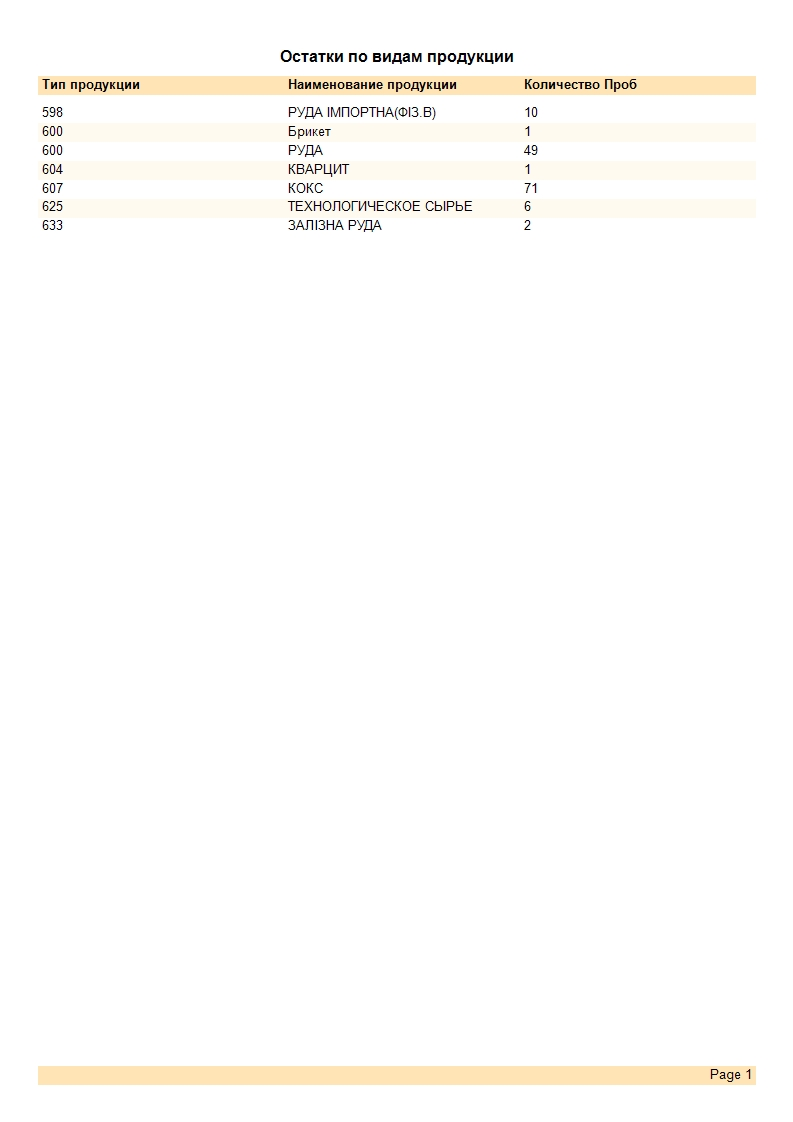
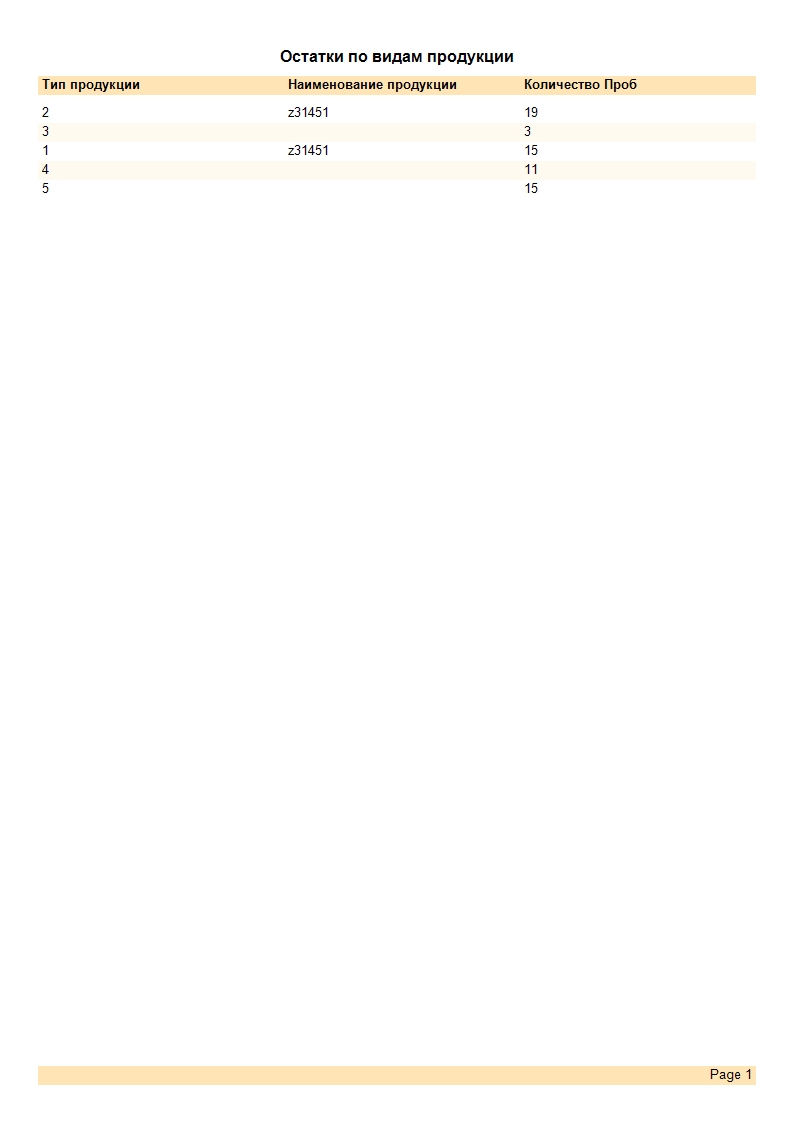
_fields.DataSource.RemoveAt(currentRow);

Changed region(s): [[0.3632, 0.0936, 0.575, 0.2184], [0.0303, 0.0936, 0.0908, 0.2184], [0.6658, 0.156, 0.6961, 0.1872]]

diff --git a/Service/DataBaseAccessService.cs b/Service/DataBaseAccessService.cs
@@ -1,4 +1,5 @@
 using Dapper;
+using System;
 using System.Collections.Generic;
 using System.Data.OleDb;
 using System.Linq;
@@ -28,26 +29,31 @@ namespace WindowsFormsFRep.Service
 
         public OleDbConnectionStringBuilder OracleConnectionStringBuilder { get => oracleConnectionStringBuilder; set => oracleConnectionStringBuilder = value; }
 
-        public List<Fields> SelectFieldsFromDateBase(string dateFrom, string dateTo)
+        public List<Fields> SelectFieldsFromDateBase()
         {
-            string command = " SELECT DISTINCT(C.CALC#) CALC, " +
-                             "   C.CALCNAME CALCNAME, " +
-                             "   COUNT(S.CALC#)  COUNT " +
-                             "   FROM SUPLPROBA S, CALC C, PROD P " +
-                             "   WHERE S.DOCDATE  between to_date(" + " ' " + dateFrom + " ' " + ", 'dd/mm/yyyy') and " +
-                             "                            to_date(" + " ' " + dateTo + " ' " + ", 'dd/mm/yyyy') " +
-                             "   AND C.CALC#=S.CALC# AND S.PROD#=P.PROD# AND P.PRODNAME NOT LIKE ('%БРИК%') " +
-                             "   GROUP BY C.CALC#,C.CALCNAME,S.CALC# " +
-                             "   UNION SELECT DISTINCT(C.CALC#) CALC, " +
-                             "  'Брикет' CALCNAME, " +
-                             "   COUNT(S.CALC#)  COUNT " +
-                             "   FROM SUPLPROBA S, CALC C, prod p " +
-                              "  WHERE S.DOCDATE  between to_date(" + " ' " + dateFrom + " ' " + ", 'dd/mm/yyyy') and " +
-                              "                           to_date(" + " ' " + dateTo + " ' " + ", 'dd/mm/yyyy') " +
-                              "  AND C.CALC#=S.CALC# " +
-                              "  and s.prod#=p.prod# " +
-                              "  and s.calc#=600 and p.prodname like ('%БРИК%') " +
-                              "  GROUP BY C.CALC#,C.CALCNAME,S.CALC# ";
+            //(string dateFrom, string dateTo)
+            //string command = " SELECT DISTINCT(C.CALC#) CALC, " +
+            //                 "   C.CALCNAME CALCNAME, " +
+            //                 "   COUNT(S.CALC#)  COUNT " +
+            //                 "   FROM SUPLPROBA S, CALC C, PROD P " +
+            //                 "   WHERE S.DOCDATE  between to_date(" + " ' " + dateFrom + " ' " + ", 'dd/mm/yyyy') and " +
+            //                 "                            to_date(" + " ' " + dateTo + " ' " + ", 'dd/mm/yyyy') " +
+            //                 "   AND C.CALC#=S.CALC# AND S.PROD#=P.PROD# AND P.PRODNAME NOT LIKE ('%БРИК%') " +
+            //                 "   GROUP BY C.CALC#,C.CALCNAME,S.CALC# " +
+            //                 "   UNION SELECT DISTINCT(C.CALC#) CALC, " +
+            //                 "  'Брикет' CALCNAME, " +
+            //                 "   COUNT(S.CALC#)  COUNT " +
+            //                 "   FROM SUPLPROBA S, CALC C, prod p " +
+            //                  "  WHERE S.DOCDATE  between to_date(" + " ' " + dateFrom + " ' " + ", 'dd/mm/yyyy') and " +
+            //                  "                           to_date(" + " ' " + dateTo + " ' " + ", 'dd/mm/yyyy') " +
+            //                  "  AND C.CALC#=S.CALC# " +
+            //                  "  and s.prod#=p.prod# " +
+            //                  "  and s.calc#=600 and p.prodname like ('%БРИК%') " +
+            //                  "  GROUP BY C.CALC#,C.CALCNAME,S.CALC# ";
+
+            //string command = " SELECT CALC# CALC, CALCNAME CALCNAME, unit# COUNT FROM CALC"; WAREDEFECT
+
+            string command = " SELECT DOCNO CALC, DBUSER CALCNAME, DEPT# COUNT FROM WAREDEFECT";
 
             List<Fields> result;
 
@@ -57,5 +63,24 @@ namespace WindowsFormsFRep.Service
             }
             return result;
         }
+
+        public int DeleteFromDatabase(string calc)
+        {
+            using (OleDbConnection db = new OleDbConnection(oracleConnectionStringBuilder.ConnectionString))
+            {
+                string sqlcommand  = " DELETE FROM WAREDEFECT WHERE docno = " + calc;                
+                try 
+                {                  
+                    int row = db.Execute(sqlcommand); 
+                    return row;
+                }
+                catch(Exception ex)
+                {
+                    return 0;
+                }
+            }
+        }
+     
+            
     }
 }

diff --git a/Form1.Designer.cs b/Form1.Designer.cs
@@ -31,6 +31,7 @@ namespace WindowsFormsFRep
         /// </summary>
         private void InitializeComponent()
         {
+            this.components = new System.ComponentModel.Container();
             System.ComponentModel.ComponentResourceManager resources = new System.ComponentModel.ComponentResourceManager(typeof(Form1));
             this.report = new FastReport.Report();
             this.dateTimePicker1 = new System.Windows.Forms.DateTimePicker();
@@ -38,8 +39,11 @@ namespace WindowsFormsFRep
             this.button1 = new System.Windows.Forms.Button();
             this.button2 = new System.Windows.Forms.Button();
             this.dataGridView = new System.Windows.Forms.DataGridView();
+            this.deleteButton = new System.Windows.Forms.Button();
+            this.bindingSource1 = new System.Windows.Forms.BindingSource(this.components);
             ((System.ComponentModel.ISupportInitialize)(this.report)).BeginInit();
             ((System.ComponentModel.ISupportInitialize)(this.dataGridView)).BeginInit();
+            ((System.ComponentModel.ISupportInitialize)(this.bindingSource1)).BeginInit();
             this.SuspendLayout();
             // 
             // report
@@ -65,17 +69,17 @@ namespace WindowsFormsFRep
             // 
             // button1
             // 
-            this.button1.Location = new System.Drawing.Point(252, 143);
+            this.button1.Location = new System.Drawing.Point(179, 127);
             this.button1.Name = "button1";
-            this.button1.Size = new System.Drawing.Size(75, 23);
+            this.button1.Size = new System.Drawing.Size(96, 23);
             this.button1.TabIndex = 2;
-            this.button1.Text = "Запрос";
+            this.button1.Text = "FastReport";
             this.button1.UseVisualStyleBackColor = true;
             this.button1.Click += new System.EventHandler(this.button1_Click);
             // 
             // button2
             // 
-            this.button2.Location = new System.Drawing.Point(252, 380);
+            this.button2.Location = new System.Drawing.Point(308, 127);
             this.button2.Name = "button2";
             this.button2.Size = new System.Drawing.Size(87, 23);
             this.button2.TabIndex = 3;
@@ -91,10 +95,21 @@ namespace WindowsFormsFRep
             this.dataGridView.Size = new System.Drawing.Size(426, 189);
             this.dataGridView.TabIndex = 4;
             // 
+            // deleteButton
+            // 
+            this.deleteButton.Location = new System.Drawing.Point(99, 389);
+            this.deleteButton.Name = "deleteButton";
+            this.deleteButton.Size = new System.Drawing.Size(103, 23);
+            this.deleteButton.TabIndex = 5;
+            this.deleteButton.Text = "Удалить строку";
+            this.deleteButton.UseVisualStyleBackColor = true;
+            this.deleteButton.Click += new System.EventHandler(this.deleteButton_Click);
+            // 
             // Form1
             // 
             this.AutoScaleMode = System.Windows.Forms.AutoScaleMode.None;
             this.ClientSize = new System.Drawing.Size(587, 512);
+            this.Controls.Add(this.deleteButton);
             this.Controls.Add(this.dataGridView);
             this.Controls.Add(this.button2);
             this.Controls.Add(this.button1);
@@ -105,6 +120,7 @@ namespace WindowsFormsFRep
             this.Text = "Остатки по видам продукции";
             ((System.ComponentModel.ISupportInitialize)(this.report)).EndInit();
             ((System.ComponentModel.ISupportInitialize)(this.dataGridView)).EndInit();
+            ((System.ComponentModel.ISupportInitialize)(this.bindingSource1)).EndInit();
             this.ResumeLayout(false);
 
         }
@@ -117,6 +133,8 @@ namespace WindowsFormsFRep
         private System.Windows.Forms.Button button1;
         private Button button2;
         private DataGridView dataGridView;
+        private Button deleteButton;
+        private BindingSource bindingSource1;
     }
 }
 

diff --git a/Form1.cs b/Form1.cs
@@ -7,6 +7,7 @@ using WindowsFormsFRep.Service;
 using System.Drawing;
 using Equin.ApplicationFramework;
 
+
 namespace WindowsFormsFRep
 {
     public partial class Form1 : Form
@@ -23,9 +24,11 @@ namespace WindowsFormsFRep
 
         private void button1_Click(object sender, EventArgs e)
         {
-            DataBaseAccessService dataBaseAccessService = new DataBaseAccessService();
-            result = dataBaseAccessService.SelectFieldsFromDateBase(dateTimePicker1.Value.ToString("dd'/'MM'/'yyyy"), dateTimePicker2.Value.ToString("dd'/'MM'/'yyyy"));
-            
+            //вариант для другого запроса
+            // result = dataBaseAccessService.SelectFieldsFromDateBase(dateTimePicker1.Value.ToString("dd'/'MM'/'yyyy"), dateTimePicker2.Value.ToString("dd'/'MM'/'yyyy"));
+            result = dataBaseAccessService.SelectFieldsFromDateBase();
+
+            //вывод в fastreport
             Report report = new Report();
             report.RegisterData(result, "fields");
             //report.Design();
@@ -40,8 +43,17 @@ namespace WindowsFormsFRep
 
         private void button2_Click(object sender, EventArgs e)
         {
-            _fields = new BindingListView<Fields>(dataBaseAccessService.SelectFieldsFromDateBase(dateTimePicker1.Value.ToString("dd'/'MM'/'yyyy"), dateTimePicker2.Value.ToString("dd'/'MM'/'yyyy")));
+            //вариант для другого запроса
+            //_fields = new BindingListView<Fields>(dataBaseAccessService.SelectFieldsFromDateBase(dateTimePicker1.Value.ToString("dd'/'MM'/'yyyy"), dateTimePicker2.Value.ToString("dd'/'MM'/'yyyy")));
+
+            //1-й вариант 
+            _fields = new BindingListView<Fields>(dataBaseAccessService.SelectFieldsFromDateBase());
             dataGridView.DataSource = _fields;
+
+            //2-й вариант
+            //this._fields = new BindingListView<Fields>(dataBaseAccessService.SelectFieldsFromDateBase());
+            //this.bindingSource1.DataSource = this._fields;
+            //this.dataGridView.DataSource = this.bindingSource1;
 
             Font F = new Font("Arial", 11);
             int nc = dataGridView.ColumnCount;
@@ -59,6 +71,36 @@ namespace WindowsFormsFRep
                 dataGridView.Columns[2].DefaultCellStyle.Font = F;
                 dataGridView.Columns[2].HeaderText = "Количество проб";
             }
+        }
+
+        private void deleteButton_Click(object sender, EventArgs e)
+        {
+            DialogResult result = MessageBox.Show("Удалить строку?", "Delete", MessageBoxButtons.YesNo);
+            if (result == DialogResult.Yes)
+            {
+                int currentRow = dataGridView.CurrentRow.Index; //текущий индекс строки                                                                                                                            
+                string selectedCalc = dataGridView.Rows[currentRow].Cells[0].Value.ToString();
+                int deleteRow = dataBaseAccessService.DeleteFromDatabase(selectedCalc);
+                _fields.DataSource.RemoveAt(currentRow);  
+                _fields.Refresh();
+                dataGridView.Refresh();
+                ShowMessageBox("Строка была успешно удалена");
+            }
+            else
+            {
+                ShowMessageBox("Строка не была удалена");
+            }     
+        }
+
+        public void ShowMessageBox(string message)
+        {
+            string caption = "delete";
+            MessageBox.Show(
+        message,
+        caption,
+        MessageBoxButtons.OKCancel,
+        MessageBoxIcon.Information
+        );
         }
     }
 }
